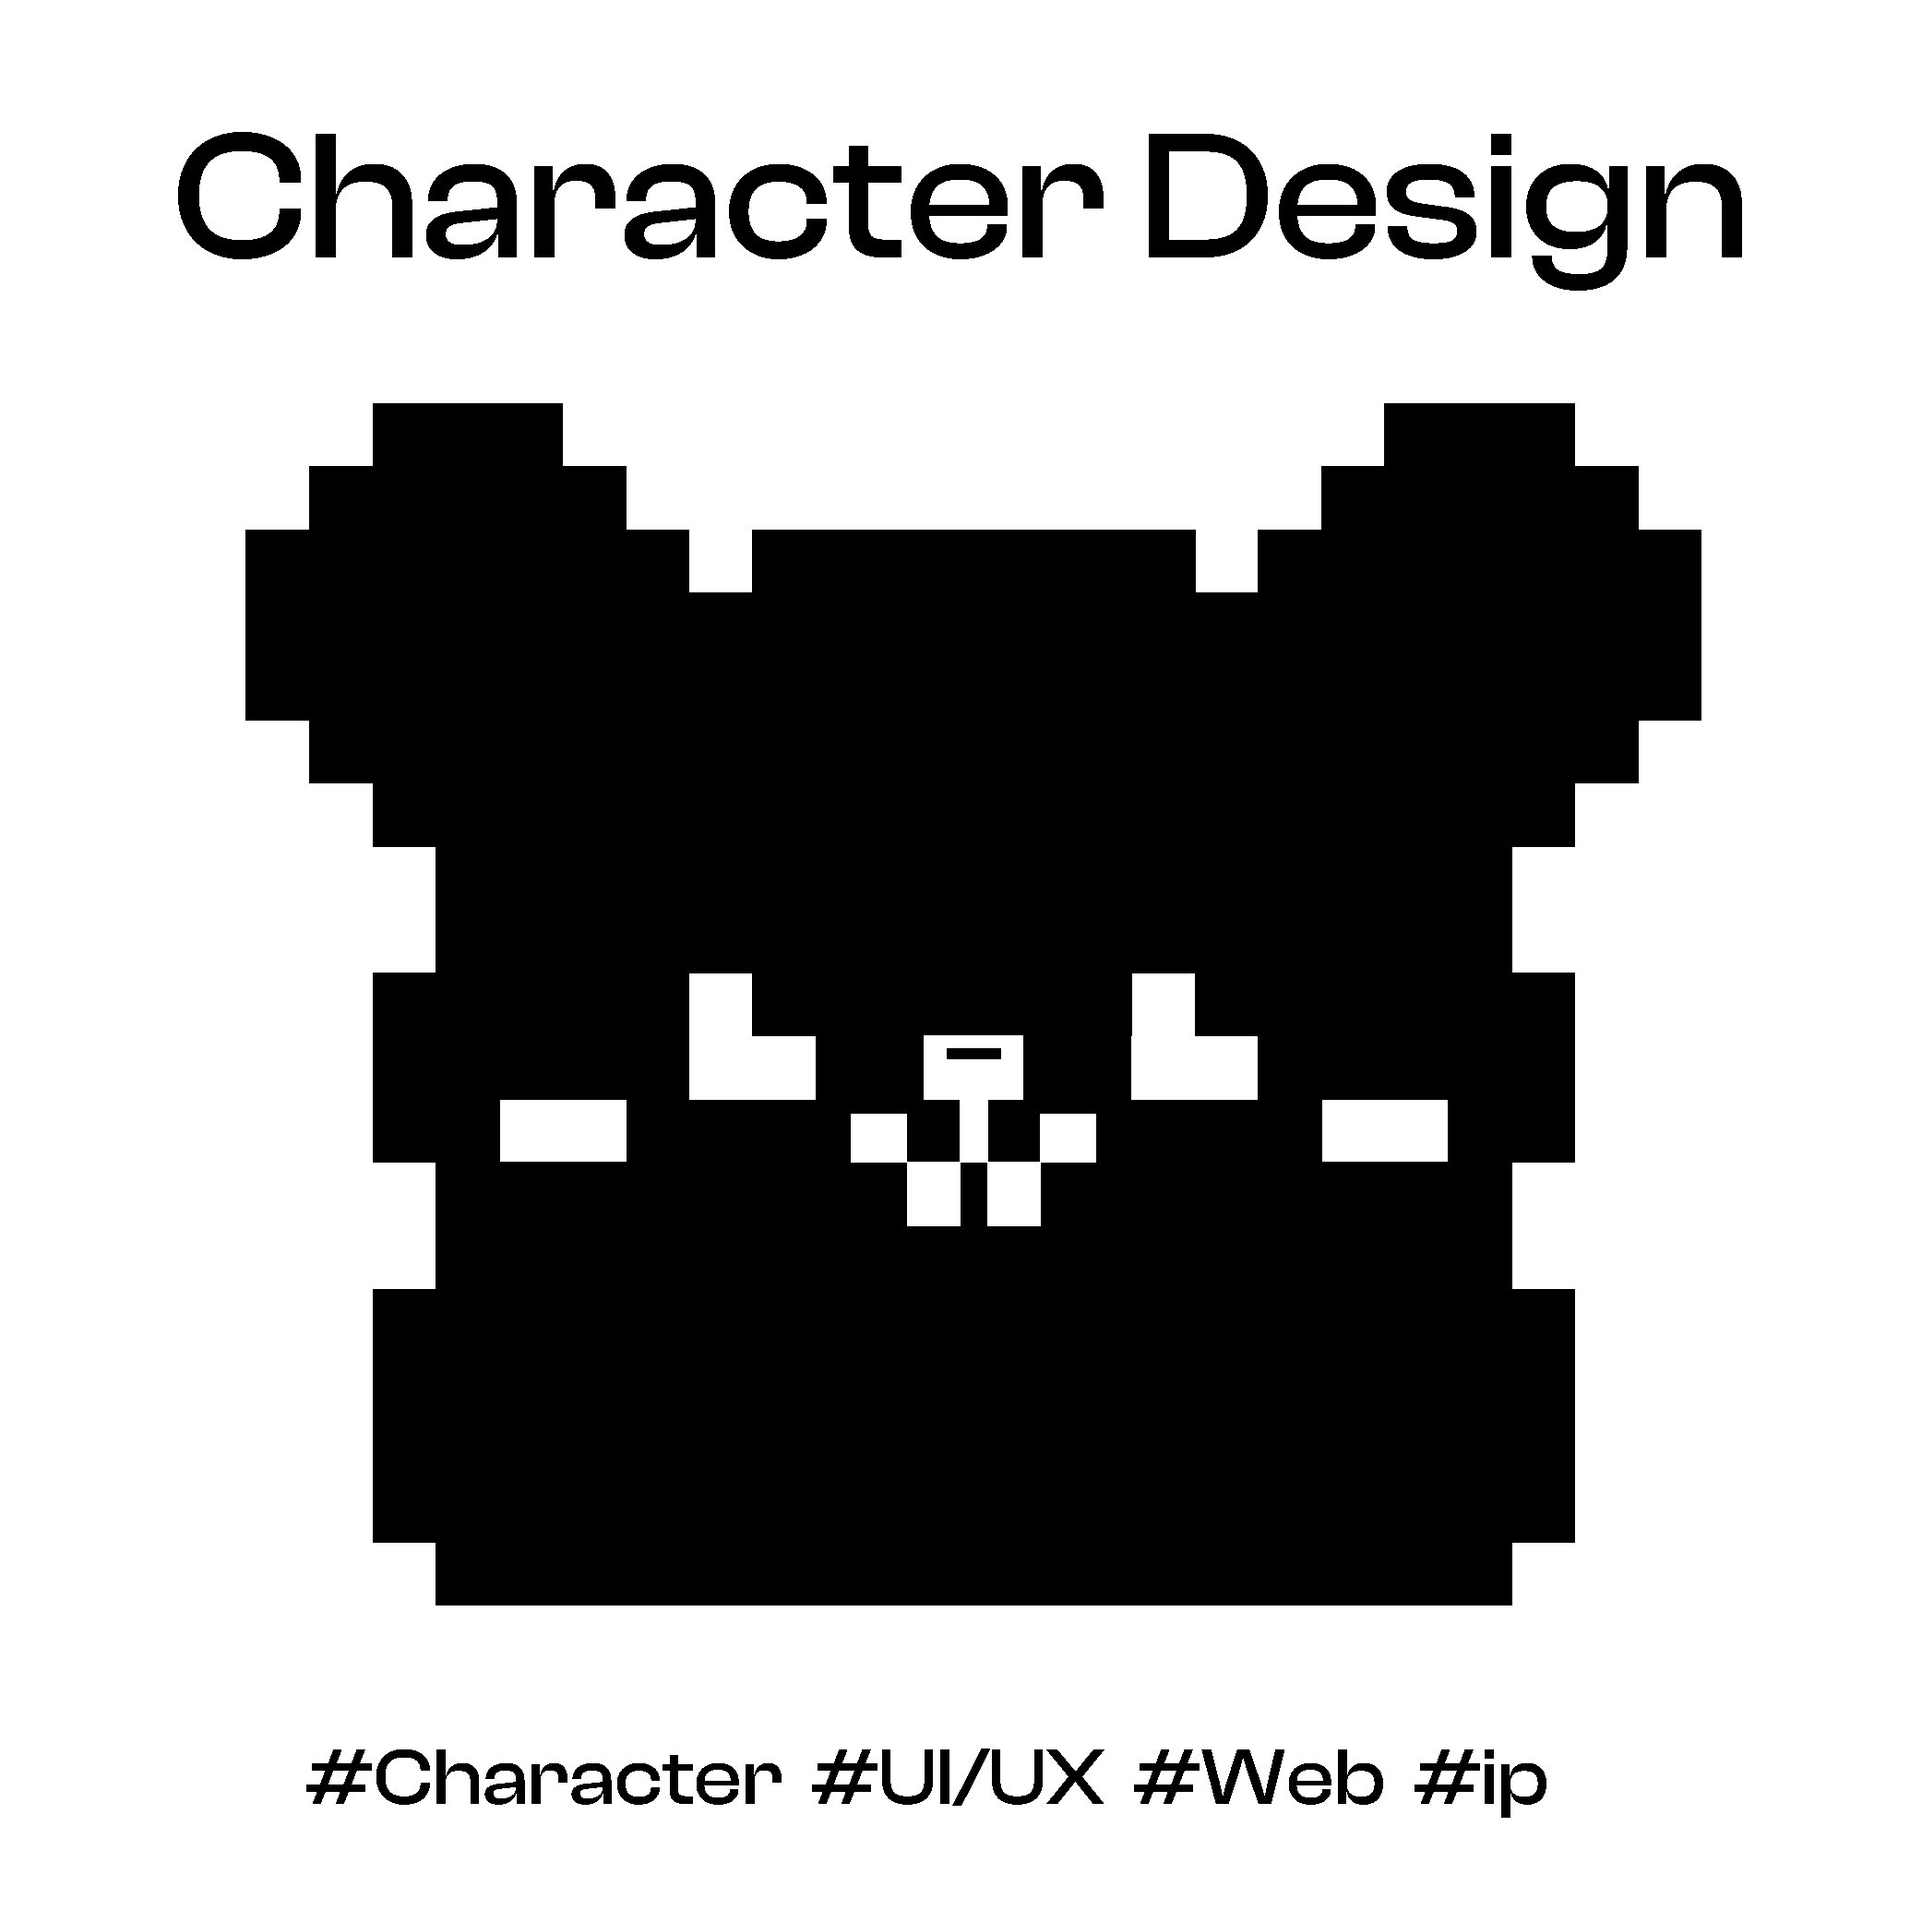
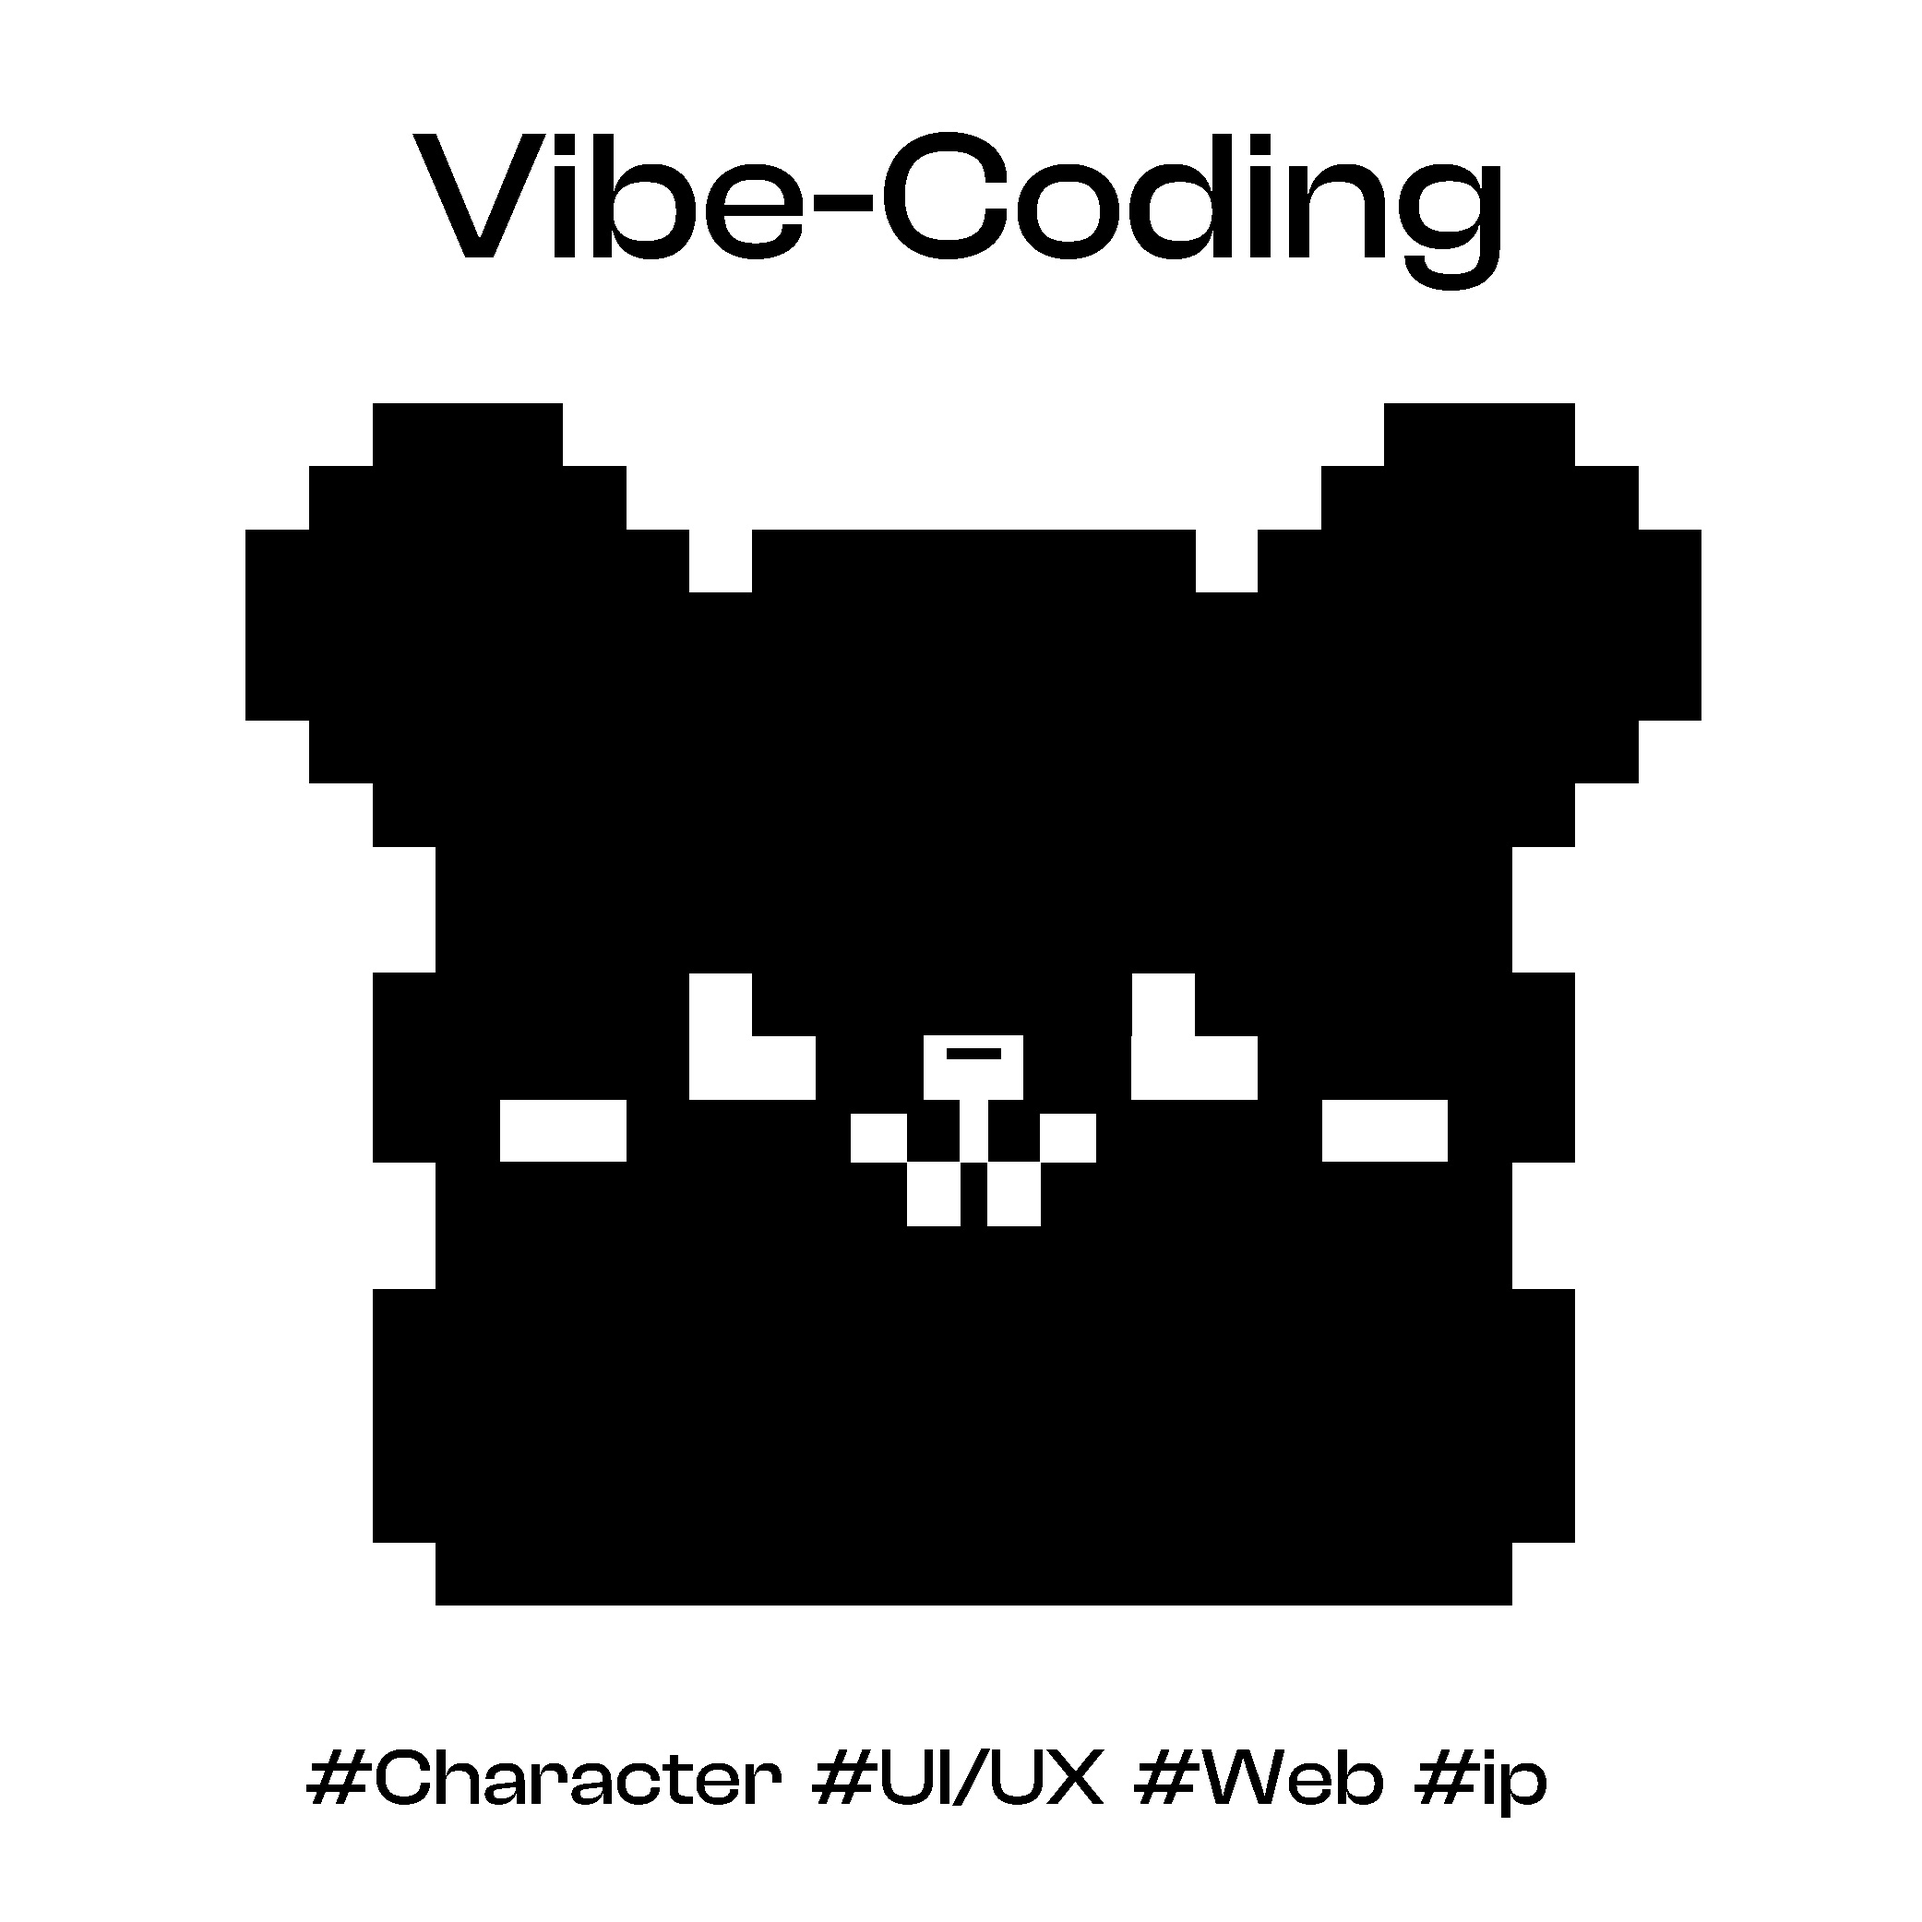
Update Works grid thumbnails for Shit Chat and SIPSI ILBAP
Swaps in the designed square icons: Shit Chat's monochrome tile now
reads "Vibe-Coding" instead of the generic "Character Design", and
SIPSI ILBAP gets its proper default/hover icon pair in place of the
earlier cropped placeholders.

Changed region(s): [[0.0936, 0.0624, 0.9049, 0.156]]

diff --git a/index.html b/index.html
@@ -417,7 +417,7 @@
           <img class="work-img work-img-hover" src="assets/img/work-05-hover.jpg" alt="" loading="lazy">
         </a>
         <a class="work-card" href="/p06-shit-chat/" data-category="ai graphic">
-          <img class="work-img work-img-default" src="assets/img/work-06.jpg" alt="Character Design" loading="lazy">
+          <img class="work-img work-img-default" src="assets/img/work-06.jpg" alt="Vibe-Coding — Shit Chat" loading="lazy">
           <img class="work-img work-img-hover" src="assets/img/work-06-hover.png" alt="" loading="lazy">
         </a>
         <a class="work-card" href="/p07-circa/" data-category="planning">
